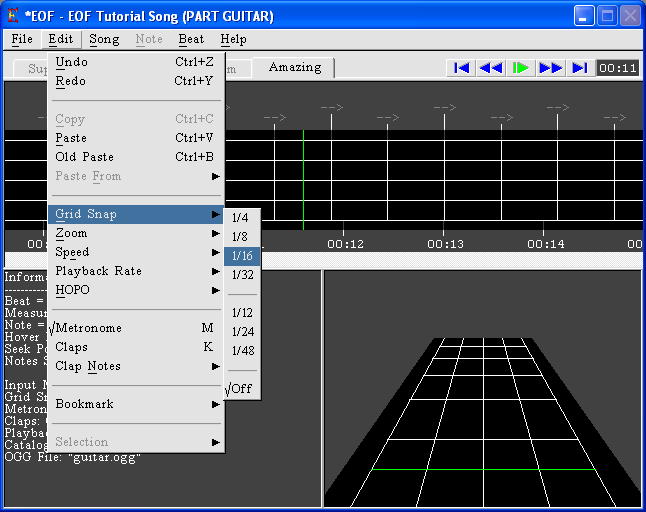
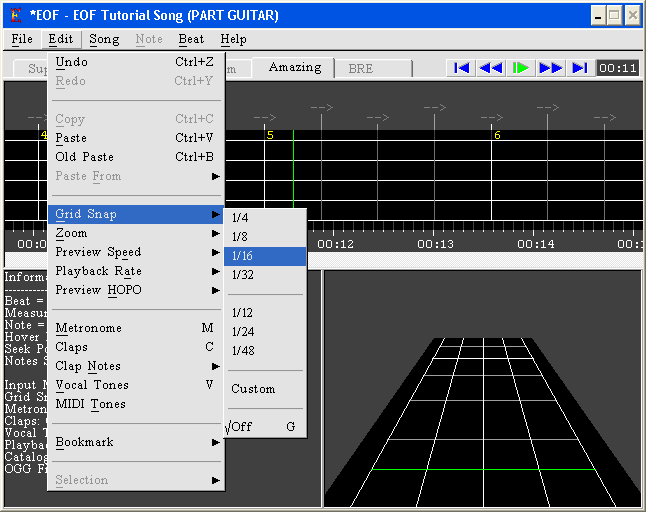
I remade the EOF screen captures to reflect the current features, and added some more information on features such as the waveform graph and measure numbering.

diff --git a/trunk/bin/tutorial/index.htm b/trunk/bin/tutorial/index.htm
@@ -8,7 +8,7 @@ p {text-indent: 1cm}
 </HEAD>
 <BODY BGCOLOR="313131" TEXT="FFFFFF" LINK="FFFFFF" VLINK="FFFFFF" ALINK="FFFFFF" >
 
-<center><IMG SRC="logo.png" ALT="Logo" BORDER=0 HSPACE=0 VSPACE=3><bR><br></center>
+<center><IMG SRC="logo.png" ALT="Logo" BORDER=0 HSPACE=0 VSPACE=3><br><br></center>
 <center>A song editor for "Frets On Fire"</center><br>
 
 <h1><a name="tutorial">Tutorial</a></h1>
@@ -16,78 +16,88 @@ p {text-indent: 1cm}
 
 <h1><a name="newproject">Creating a New Project</a></h1>
 Select "New" from the "File" menu:<br><br>
-<center><IMG SRC="image3.png" ALT="screen" BORDER=0 HSPACE=0 VSPACE=3><bR><br></center>
+<center><IMG SRC="image3.png" ALT="screen" BORDER=0 HSPACE=0 VSPACE=3><br><br></center>
 
 You will see this screen:<br><br>
-<center><IMG SRC="image4.png" ALT="screen" BORDER=0 HSPACE=0 VSPACE=3><bR><br></center>
+<center><IMG SRC="image4.png" ALT="screen" BORDER=0 HSPACE=0 VSPACE=3><br><br></center>
 
 You will need to select an OGG or MP3 file to use for this project. I've included a simple song which we will use for the purpose of this tutorial. Select "tutorial.ogg" located in the EOF folder:<br><br>
-<center><IMG SRC="image5.png" ALT="screen" BORDER=0 HSPACE=0 VSPACE=3><bR><br></center>
+<center><IMG SRC="image5.png" ALT="screen" BORDER=0 HSPACE=0 VSPACE=3><br><br></center>
 
-Now you will have to tell EOF where you would like the new project to be saved. For this tutorial we will let EOF create a new folder for us. Select the "Create New Folder" radio button and fill in the name of the song folder in the edit box:<br><br>
-<center><IMG SRC="image6.png" ALT="screen" BORDER=0 HSPACE=0 VSPACE=3><bR><br></center>
+Now you can fill in the basic song information:<br><br>
+<center><IMG SRC="image7.png" ALT="screen" BORDER=0 HSPACE=0 VSPACE=3><br><br></center>
 
-Finally, we can fill in the basic song information:<br><br>
-<center><IMG SRC="image7.png" ALT="screen" BORDER=0 HSPACE=0 VSPACE=3><bR><br></center>
+Finally, you will tell EOF where you would like the new project to be saved. For this tutorial we will let EOF create a new folder for us. Select the "Create New Folder" radio button and fill in the name of the song folder in the edit box:<br><br>
+<center><IMG SRC="image6.png" ALT="screen" BORDER=0 HSPACE=0 VSPACE=3><br><br></center>
+
 If the new project is successfully created, the EOF window should now look like this:<br><br>
-<center><IMG SRC="image8.png" ALT="screen" BORDER=0 HSPACE=0 VSPACE=3><bR><br></center>
+<center><IMG SRC="image8.png" ALT="screen" BORDER=0 HSPACE=0 VSPACE=3><br><br></center>
 
 <h1><a name="tempomap">Creating a Tempo Map</a></h1>
 The first thing you will want to do when creating a song is set up a proper tempo map. While this step is not necessary to make a playable song, it will speed up the fretting process and give your song a professional touch.<br><br>
 You will need to turn on the metronome. Do so by selecting "Edit->Metronome" from the menu:<br><br>
-<center><IMG SRC="image9.png" ALT="screen" BORDER=0 HSPACE=0 VSPACE=3><bR><br></center>
+<center><IMG SRC="image9.png" ALT="screen" BORDER=0 HSPACE=0 VSPACE=3><br><br></center>
 With the metronome on you will be able to audibly hear the beat markers while the song is playing. Press play (Space) and listen for about 4 seconds. Notice the first drum beat occurs around the 2 second mark. We want to move the first beat marker so that it matches the first beat of the song. Rewind to the beginning of the song (Home) drag the first beat marker to the 2 second mark:<br><br>
-<center><IMG SRC="image10.png" ALT="screen" BORDER=0 HSPACE=0 VSPACE=3><bR><br></center>
+<center><IMG SRC="image10.png" ALT="screen" BORDER=0 HSPACE=0 VSPACE=3><br><br></center>
 Now rewind to the beginning again and press play. If the metronome sounds exactly when the first beat starts (when you first hear the drums in this case) the beat marker has been placed correctly. If not you will have to adjust it until it is correct. Here's what mine looks like when it's in the correct place:<br><br>
-<center><IMG SRC="image11.png" ALT="screen" BORDER=0 HSPACE=0 VSPACE=3><bR><br></center>
+<center><IMG SRC="image11.png" ALT="screen" BORDER=0 HSPACE=0 VSPACE=3><br><br></center>
 You can also use the "Song Properties" dialog to make adjustments to the position of the first beat marker by changing the "Delay" setting:<br><br>
-<center><IMG SRC="image27.png" ALT="screen" BORDER=0 HSPACE=0 VSPACE=3><bR><br></center>
+<center><IMG SRC="image27.png" ALT="screen" BORDER=0 HSPACE=0 VSPACE=3><br><br></center>
 Once we have the first beat marker in the correct place we need to find the correct BPM for the song. You can use an external program like <a href="http://www.mixmeister.com/bpmanalyzer/bpmanalyzer.asp">MixMeister BPM Analyzer</a> to find the average BPM of the song if you like. You can find the correct BPM using only EOF by listening for the start of the second measure (typically the beat after the second snare drum) and adjusting the fourth beat marker to line up with the start of the first beat of that measure. Listening to the song we can hear that the second measure starts around the 4.5 second mark so let's move the fourth beat marker:<br><br>
-<center><IMG SRC="image12.png" ALT="screen" BORDER=0 HSPACE=0 VSPACE=3><bR><br></center>
+<center><IMG SRC="image12.png" ALT="screen" BORDER=0 HSPACE=0 VSPACE=3><br><br></center>
 Rewind (Left key) a few seconds and listen to see if the fourth beat marker is in the correct place. If not, adjust it until it is correct.<br><br>
 Notice the BPM at the first beat marker has changed from 120. It should be around 106 if the beat markers are placed correctly. This is roughly the correct BPM for the song so we want to set the BPM of the entire song to 106. The easiest way to do this is to use the "Reset BPM" option from the "Beat" menu:<br><br>
-<center><IMG SRC="image13.png" ALT="screen" BORDER=0 HSPACE=0 VSPACE=3><bR><br></center>
+<center><IMG SRC="image13.png" ALT="screen" BORDER=0 HSPACE=0 VSPACE=3><br><br></center>
 You will be asked if you want to erase all BPM changes. Clicking "OK" will set the BPM of the entire song to 106.<br><br>
 If you are having trouble hearing exactly where the beats are you may find it useful to play the song back at 75% or 50% speed. To do so select "Playback Rate" from the "Edit" menu:<br><br>
-<center><IMG SRC="image28.png" ALT="screen" BORDER=0 HSPACE=0 VSPACE=3><bR><br></center>
+<center><IMG SRC="image28.png" ALT="screen" BORDER=0 HSPACE=0 VSPACE=3><br><br></center>
 Now that we have a close BPM value, we will need to listen through the entire song to ensure the beat markers are correct throughout. For most songs you will need to make small adjustments throughout as usually when a band plays they do not keep an exact BPM the entire song.<br><br>
 It is important to note that when compensating for slight variations in BPM over the course of the song you will need to set anchors (select a beat and hit the 'A' key) every measure or two. EOF readjusts all the beat markers in between the marker you click-and-drag and the previous anchor. This can cause earlier beats to be moved inadvertently so it's best to set anchors every so often even if the beats are already lined up correctly. Anchored beats are indicated by a red arrow pointing down at the beat marker. Moving a beat marker with the mouse automatically makes that beat an anchor.<br><br>
+
+You may have noticed those yellow numbers displayed next to the beat markers.  Those tell the placement of each measure and its number, based on the specified Time Signature (see <a href="../manual/functions.htm#timesignature">Beat->Time Signature</a>).  This isn't information that's even used in all versions of Frets on Fire, but it may be useful if you intend to use Time Signature information as a charting aid.  If you select the first beat marker and select Beat>Time Signature>4/4, it will set the time signature, marking every 1 of 4 beat markers with a number.  When the beat is selected, the Information Panel will also display beat and measure numbering information.<br><br>
+
+Depending on the song, it might even help to see a graphical representation of the audio in what is called a waveform graph.  You can display this graph by opening the Song menu, opening the Waveform graph submenu and selecting "Show", or you can use the F5 shortcut key:<br><br>
+<center><IMG SRC="image30.png" ALT="screen" BORDER=0 HSPACE=0 VSPACE=3><br><br></center>
+
+As you can see from the picture below, the goal is to have the beats line up with the drummer.  Although the graph won't always help you immediately identify the drum audio, it may help you make fine tuning adjustments when your hearing is in doubt:<br><br>
+<center><IMG SRC="image31.png" ALT="screen" BORDER=0 HSPACE=0 VSPACE=3><br><br></center>
+
 Once you have reached the end of the song it is a good idea to rewind to the beginning and listen to the whole song with the metronome on. If some beats are a little off go ahead and adjust them until they are correct. Having a correct tempo map is the key to creating a high quality note chart.<br><br>
 Now that the tempo map is finished it might be a good time to save your work. You may also wish to save a an extra copy of the project (see "<a href="../manual/functions.htm#saveas">File->Save As</a>") in case the tempo map is altered irreversibly later on in the edit process.
 
 <h1><a name="fretting">Fretting a Song</a></h1>
 Now let's start adding notes to our song. The first thing we want to do is select a proper grid snap setting. For this song 1/16 should suffice:<br><br>
-<center><IMG SRC="image14.png" ALT="screen" BORDER=0 HSPACE=0 VSPACE=3><bR><br></center>
+<center><IMG SRC="image14.png" ALT="screen" BORDER=0 HSPACE=0 VSPACE=3><br><br></center>
 Grid Snap allows you to more easily control the spacing between notes. The setting represents the fraction of a measure to which notes will snap. 1/4 will snap to each quarter of a measure (or each whole beat). We choose 1/16 for this tutorial because the smallest note in the song we are fretting is 1/16th of a measure in length. The Grid Snap setting also affects note tail length operations in that it will snap the tail to the previous/next grid snap position when changing the length of the tail.<br><br>
 Rewind to the beginning of the song and listen until you hear the first guitar notes played. Notice the guitar between the 11 and 12 second mark:<br><br>
-<center><IMG SRC="image15.png" ALT="screen" BORDER=0 HSPACE=0 VSPACE=3><bR><br></center>
+<center><IMG SRC="image15.png" ALT="screen" BORDER=0 HSPACE=0 VSPACE=3><br><br></center>
 We want to place some notes where the guitar is. Move the mouse to where you heard the guitar notes:<br><br>
-<center><IMG SRC="image16.png" ALT="screen" BORDER=0 HSPACE=0 VSPACE=3><bR><br></center>
+<center><IMG SRC="image16.png" ALT="screen" BORDER=0 HSPACE=0 VSPACE=3><br><br></center>
 Notice that you can see the note colors where the mouse is hovering (assuming the Edit Mode is set to Piano Roll, see <a href="../manual/edit.htm#edit">Edit Modes</a> for details). Right-click to place the notes where you think they should go:<br><br>
-<center><IMG SRC="image17.png" ALT="screen" BORDER=0 HSPACE=0 VSPACE=3><bR><br></center>
+<center><IMG SRC="image17.png" ALT="screen" BORDER=0 HSPACE=0 VSPACE=3><br><br></center>
 We've placed our first notes now but the third note needs to be longer. Click on the third note to select it and scroll the mouse wheel up (or press the ']' key) to extend it. It should now look like this:<br><br>
-<center><IMG SRC="image18.png" ALT="screen" BORDER=0 HSPACE=0 VSPACE=3><bR><br></center>
+<center><IMG SRC="image18.png" ALT="screen" BORDER=0 HSPACE=0 VSPACE=3><br><br></center>
 Now we listen for more notes and place them where we think they should go. It's really up to you where you put the notes but try and be realistic.<br><br>
 At the 21 second mark we notice something new. There are note chords. Making a chord is simply adding a new color to an existing note by right-clicking. I'm going to make mine a blue-purple chord:<br><br>
-<center><IMG SRC="image19.png" ALT="screen" BORDER=0 HSPACE=0 VSPACE=3><bR><br></center>
+<center><IMG SRC="image19.png" ALT="screen" BORDER=0 HSPACE=0 VSPACE=3><br><br></center>
 Next we're going to learn how to copy and paste notes. Many songs have riffs or melodies which repeat multiple times. We can save a lot of time if we copy the notes for these repeating parts instead of re-fretting them.<br><br>
 Fret the song up until the 38 second mark. Between the 29 second mark and the 38 second mark is a part which repeats later on and with variation so let's copy the notes to the clipboard. Select the first note/chord after the 29 second mark:<br><br>
-<center><IMG SRC="image20.png" ALT="screen" BORDER=0 HSPACE=0 VSPACE=3><bR><br></center>
+<center><IMG SRC="image20.png" ALT="screen" BORDER=0 HSPACE=0 VSPACE=3><br><br></center>
 Now forward (Right key) to the 34 second mark, hold Shift and click the last note/chord there:<br><br>
-<center><IMG SRC="image21.png" ALT="screen" BORDER=0 HSPACE=0 VSPACE=3><bR><br></center>
+<center><IMG SRC="image21.png" ALT="screen" BORDER=0 HSPACE=0 VSPACE=3><br><br></center>
 This selects all the notes from the first note you clicked to the note you Shift+clicked. We want to copy these so we go to "Copy" on the "Edit" menu:<br><br>
-<center><IMG SRC="image22.png" ALT="screen" BORDER=0 HSPACE=0 VSPACE=3><bR><br></center>
+<center><IMG SRC="image22.png" ALT="screen" BORDER=0 HSPACE=0 VSPACE=3><br><br></center>
 Now let's forward to where we want to paste the copied notes. Move the song position to somewhere in the beat where we want the pasted notes to start:<br><br>
-<center><IMG SRC="image23.png" ALT="screen" BORDER=0 HSPACE=0 VSPACE=3><bR><br></center>
+<center><IMG SRC="image23.png" ALT="screen" BORDER=0 HSPACE=0 VSPACE=3><br><br></center>
 Select "Paste" from the "Edit" menu to paste the copied notes:<br><br>
-<center><IMG SRC="image24.png" ALT="screen" BORDER=0 HSPACE=0 VSPACE=3><bR><br></center>
+<center><IMG SRC="image24.png" ALT="screen" BORDER=0 HSPACE=0 VSPACE=3><br><br></center>
 Listening to the song we can see that the last note is different this time so let's change it. I want to change my green-yellow chord to a green note so I right-click the yellow note to remove it:<br><br>
-<center><IMG SRC="image25.png" ALT="screen" BORDER=0 HSPACE=0 VSPACE=3><bR><br></center>
+<center><IMG SRC="image25.png" ALT="screen" BORDER=0 HSPACE=0 VSPACE=3><br><br></center>
 Also, notice there are a few extra notes around the 45 second mark so let's fret those:<br><br>
-<center><IMG SRC="image26.png" ALT="screen" BORDER=0 HSPACE=0 VSPACE=3><bR><br></center>
+<center><IMG SRC="image26.png" ALT="screen" BORDER=0 HSPACE=0 VSPACE=3><br><br></center>
 You can place the new notes without shortening the green note as it will be automatically shortened when new notes are placed on it's tail.<br><br>
 You can also use the Catalog to copy sections of a song from one part to another. See <a href="../manual/edit.htm#catalog">the Catalog section of Editing Songs</a> and "<a href="../manual/functions.htm#catalog">Song->Catalog</a>" for information on how to use the Catalog. Here's what the screen looks like with the first repeating guitar part added to the catalog and the catalog view turned on:<br><br>
-<center><IMG SRC="image29.png" ALT="screen" BORDER=0 HSPACE=0 VSPACE=3><bR><br></center>
+<center><IMG SRC="image29.png" ALT="screen" BORDER=0 HSPACE=0 VSPACE=3><br><br></center>
 Pressing the play button in the Catalog view will play back that specific entry so you can easily compare what's in the Catalog to other parts of the song.<br><br>
 Between the 47 and 48 second marker the entire section we just made (from 29 to 47 seconds) repeats so let's copy and paste all those notes.<br><br>
 Fill in 1:06 to 1:26 however you see fit. Congratulations, you have just fretted your first song using EOF. Don't forget to save your work.

diff --git a/trunk/bin/manual/functions.htm b/trunk/bin/manual/functions.htm
@@ -174,7 +174,7 @@ Enables/disables/toggles the freestyle status of selected lyrics.  See the <a hr
 <h1><a name="bpmchange">BPM Change</a></h1>
 Change the BPM of the currently selected beat. If "This Beat Only" is selected, only the current beat will be set to the new BPM. Further beats will remain at the old BPM setting. "Adjust Notes" causes any notes within beats affected by the BPM change to be scaled to fit (the same as the "<a href="functions.htm#preferences">"Note Auto-Adjust"</a> option when moving beat markers with the mouse).<br>
 <h1><a name="timesignature">Time Signature</a></h1>
-Set the time signature starting from the currently selected beat. This setting does not affect the outputted MIDI file and is simply a visual aid to editing. Setting up a time signature can make it easier to see where you are in the song as each measure begins with a brighter beat line.<br>
+Set the time signature starting from the currently selected beat. This setting does not affect the outputted MIDI file and is simply a visual aid to editing. Setting up a time signature can make it easier to see where you are in the song as each measure begins with a brighter beat line.  Each measure will also have its beat marker labeled with the measure's number in yellow text.<br>
 <h1><a name="add">Add</a></h1>
 Add a beat to the song and adjust the BPM of the previous anchor to make all the beats fit evenly between the previous anchor and the next. Useful if you have two anchors and you need to add some extra beats in between so there are enough beats to match the music. This function is only available when there is at least one anchor after the selected beat.<br>
 <h1><a name="beatdelete">Delete</a></h1>
